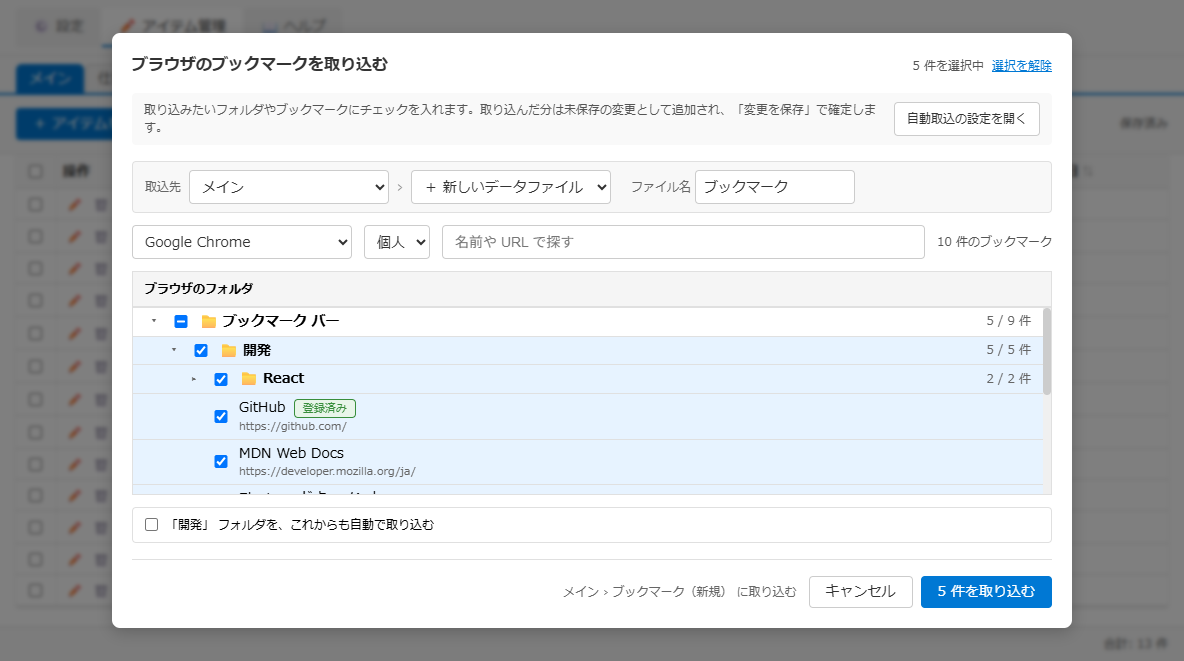
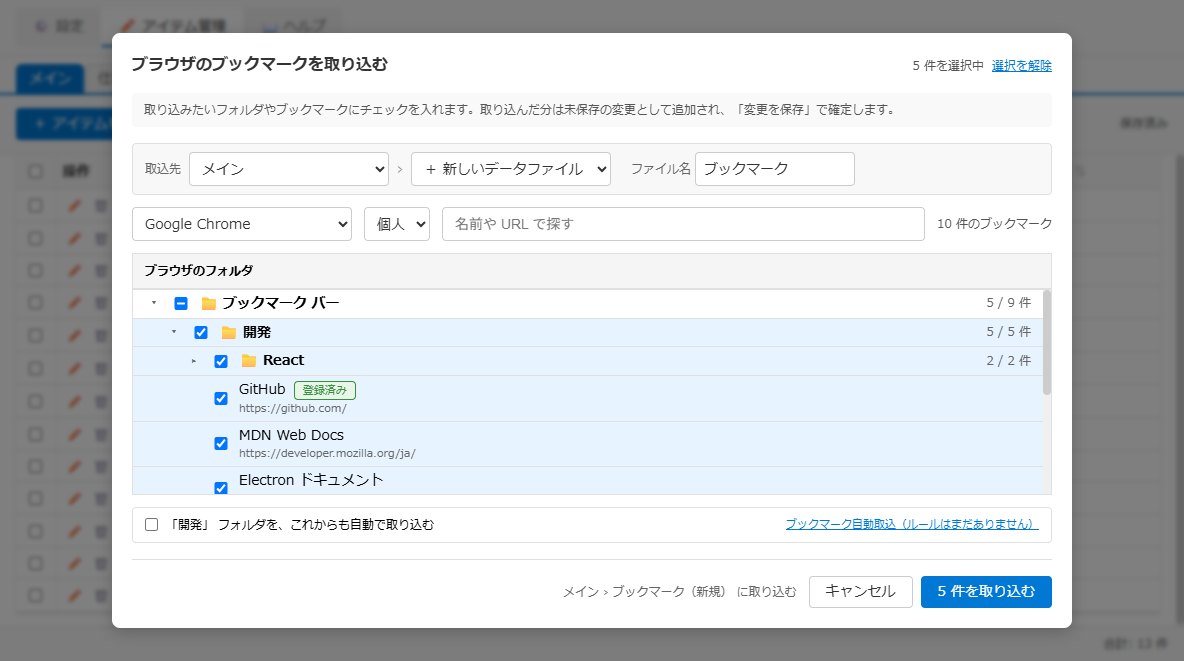
feat: ブックマーク取込の「自動取込の設定を開く」を、自動取込の帯のリンク「ブックマーク自動取込（ルール N 件）」にする（A3-95 本人の確認から）
- 上の案内のボタンを外し、自動取込の帯の右端にリンクを置く。ルールが 0 件でも「（ルールはまだありません）」と出し、自動取込があることに気づけるようにする
- リンクの文言を行き先の設定の名前にそろえ、保存されるルールの説明も「あとで「ブックマーク自動取込」で足せます」にする

diff --git a/src/renderer/components/BookmarkImportModal.tsx b/src/renderer/components/BookmarkImportModal.tsx
@@ -65,6 +65,8 @@ interface BookmarkImportModalProps {
   onCancel: () => void;
   /** 設定「ブックマーク自動取込」を開く（既存ルールの確認用。モーダルは閉じる） */
   onOpenAutoImportSettings?: () => void;
+  /** 設定にある自動取込のルールの数（帯のリンクに出す） */
+  autoImportRuleCount: number;
 }
 
 function BookmarkImportModal({
@@ -76,6 +78,7 @@ function BookmarkImportModal({
   onSaveAsRule,
   onCancel,
   onOpenAutoImportSettings,
+  autoImportRuleCount,
 }: BookmarkImportModalProps): ReactElement {
   const { t } = useTranslation();
   const modalRef = useRef<HTMLDivElement>(null);
@@ -514,21 +517,7 @@ function BookmarkImportModal({
           </div>
         </div>
 
-        <div className="import-hint import-hint-with-action">
-          <span>{t('bookmarkImportModal.hint')}</span>
-          {onOpenAutoImportSettings && (
-            <Button
-              variant="secondary"
-              size="sm"
-              onClick={() => {
-                onCancel();
-                onOpenAutoImportSettings();
-              }}
-            >
-              {t('bookmarkRule.openAutoImportSettings')}
-            </Button>
-          )}
-        </div>
+        <div className="import-hint">{t('bookmarkImportModal.hint')}</div>
 
         <ImportDestinationBand dest={dest} />
 
@@ -658,15 +647,32 @@ function BookmarkImportModal({
 
         {/* 自動取込の帯（フッターの上。重複時の処理と同じ置き方） */}
         <div className={`bookmark-import-sync${asRule ? ' on' : ''}`}>
-          <label className="bookmark-import-sync-toggle">
-            <input
-              type="checkbox"
-              checked={asRule}
-              disabled={!canSync}
-              onChange={(e) => setAsRule(e.target.checked)}
-            />
-            {syncLabel}
-          </label>
+          <div className="bookmark-import-sync-row">
+            <label className="bookmark-import-sync-toggle">
+              <input
+                type="checkbox"
+                checked={asRule}
+                disabled={!canSync}
+                onChange={(e) => setAsRule(e.target.checked)}
+              />
+              {syncLabel}
+            </label>
+            {/* 設定の「ブックマーク自動取込」へ。ルールが 0 件でも出し、自動取込があることに気づけるようにする */}
+            {onOpenAutoImportSettings && (
+              <button
+                type="button"
+                className="bookmark-import-sync-link"
+                onClick={() => {
+                  onCancel();
+                  onOpenAutoImportSettings();
+                }}
+              >
+                {autoImportRuleCount > 0
+                  ? t('bookmarkImportModal.autoImportLink', { count: autoImportRuleCount })
+                  : t('bookmarkImportModal.autoImportLinkNone')}
+              </button>
+            )}
+          </div>
           {asRule ? (
             <>
               <label className="bookmark-import-rule-name">

diff --git a/src/common/i18n/locales/ja.ts b/src/common/i18n/locales/ja.ts
@@ -1147,7 +1147,6 @@ info secondary purple teal pink indigo orange cyan か #rrggbb。グループは
     newTitle: 'ブックマークの取込ルールを追加',
     editTitle: 'ブックマークの取込ルールを編集',
     hint: '条件に合うブックマークを、起動時などに取込先へ入れ直します。ブラウザ側で足したり消したりした分が反映されます。',
-    openAutoImportSettings: '自動取込の設定を開く',
     name: 'ルール名:',
     namePlaceholder: '{{name}}（空なら条件から自動で付けます）',
     source: '取込元:',
@@ -1249,9 +1248,12 @@ info secondary purple teal pink indigo orange cyan か #rrggbb。グループは
     syncHtml: 'HTML ファイルは自動取込にできません',
     syncSearching: '検索中は自動取込にできません。検索を消して、フォルダごと選ぶと使えます',
     syncPartial: '1 件ずつ選んだ分があるので自動取込にできません。フォルダごと選ぶと使えます',
+    autoImportLink_one: 'ブックマーク自動取込（ルール {{count}} 件）',
+    autoImportLink_other: 'ブックマーク自動取込（ルール {{count}} 件）',
+    autoImportLinkNone: 'ブックマーク自動取込（ルールはまだありません）',
     ruleName: 'ルール名',
     ruleSummary:
-      '保存されるルール: {{source}} ・ {{folders}}。名前の条件や表示名は、あとで設定の「ブックマーク自動取込」で足せます',
+      '保存されるルール: {{source}} ・ {{folders}}。名前の条件や表示名は、あとで「ブックマーク自動取込」で足せます',
     ruleAllFolders: 'すべてのフォルダ（あとから増えたフォルダも）',
     ruleFolders: '{{folders}}（サブフォルダも）',
     allBookmarksRuleName: 'ブックマーク全件',

diff --git a/src/common/i18n/locales/en.ts b/src/common/i18n/locales/en.ts
@@ -1144,7 +1144,6 @@ warning, info, secondary, purple, teal, pink, indigo, orange, cyan, or #rrggbb. 
     newTitle: 'Add a bookmark import rule',
     editTitle: 'Edit bookmark import rule',
     hint: 'Bookmarks that match are imported into the destination again at startup and other times, so changes made in the browser are reflected.',
-    openAutoImportSettings: 'Open auto-import settings',
     name: 'Rule name:',
     namePlaceholder: '{{name}} (named from the conditions if left blank)',
     source: 'Source:',
@@ -1247,9 +1246,12 @@ warning, info, secondary, purple, teal, pink, indigo, orange, cyan, or #rrggbb. 
       "You can't set up auto-import while searching. Clear the search and select whole folders",
     syncPartial:
       "Some bookmarks are selected one by one, so they can't be auto-imported. Select whole folders",
+    autoImportLink_one: 'Bookmark auto-import ({{count}} rule)',
+    autoImportLink_other: 'Bookmark auto-import ({{count}} rules)',
+    autoImportLinkNone: 'Bookmark auto-import (no rules yet)',
     ruleName: 'Rule name',
     ruleSummary:
-      'Rule to save: {{source}} · {{folders}}. You can add name filters or display names later in Settings > Bookmark auto-import',
+      'Rule to save: {{source}} · {{folders}}. You can add name filters or display names later in Bookmark auto-import',
     ruleAllFolders: 'All folders (including ones added later)',
     ruleFolders: '{{folders}} (with subfolders)',
     allBookmarksRuleName: 'All bookmarks',

diff --git a/tests/e2e/specs/bookmark-import.spec.ts b/tests/e2e/specs/bookmark-import.spec.ts
@@ -302,11 +302,15 @@ test.describe('QuickDashLauncher - ブックマーク取込', () => {
     await stubBrowsers(electronApp);
 
     try {
-      await test.step('取込画面の案内から設定の該当カテゴリを開く（取込画面は閉じる）', async () => {
+      await test.step('取込画面の自動取込の帯のリンクから設定の該当カテゴリを開く（取込画面は閉じる）', async () => {
         await chooseImportMenu(adminWindow, 'ブラウザのブックマークを取り込む');
         const modal = adminWindow.locator(IMPORT_MODAL);
         await modal.waitFor({ state: 'visible', timeout: 10000 });
-        await modal.locator('.import-hint .btn', { hasText: '自動取込の設定を開く' }).click();
+        // 帯の右端のリンク。ルールが無くても出す
+        await expect(modal.locator('.bookmark-import-sync-link')).toHaveText(
+          'ブックマーク自動取込（ルールはまだありません）'
+        );
+        await modal.locator('.bookmark-import-sync-link').click();
         await expect(
           adminWindow.locator('.menu-item.active', { hasText: 'ブックマーク自動取込' })
         ).toBeVisible({ timeout: 5000 });

diff --git a/src/renderer/styles/components/BookmarkImport.css b/src/renderer/styles/components/BookmarkImport.css
@@ -290,6 +290,27 @@
   background-color: var(--bg-section);
 }
 
+.bookmark-import-sync-row {
+  display: flex;
+  flex-wrap: wrap;
+  align-items: center;
+  gap: var(--spacing-xs) var(--spacing-lg);
+}
+
+/* 右端の「ブックマーク自動取込（ルール N 件）」 */
+.bookmark-import-sync-link {
+  margin-left: auto;
+  padding: 0;
+  border: none;
+  background: none;
+  color: var(--color-primary);
+  font-family: inherit;
+  font-size: var(--font-size-xs);
+  text-decoration: underline;
+  white-space: nowrap;
+  cursor: pointer;
+}
+
 .bookmark-import-sync-toggle {
   display: flex;
   align-items: center;

diff --git a/src/renderer/styles/components/ImportModal.css b/src/renderer/styles/components/ImportModal.css
@@ -130,16 +130,3 @@
   display: flex;
   gap: var(--spacing-sm);
 }
-
-/* 案内の右にボタンを置くとき（ブックマーク取込の「自動取込の設定を開く」） */
-.import-hint-with-action {
-  display: flex;
-  flex-wrap: wrap;
-  align-items: center;
-  gap: var(--spacing-sm) var(--spacing-md);
-}
-
-.import-hint-with-action > span {
-  flex: 1 1 320px;
-  min-width: 0;
-}

diff --git a/src/renderer/components/AdminItemManagerView.tsx b/src/renderer/components/AdminItemManagerView.tsx
@@ -778,6 +778,7 @@ const AdminItemManagerView: React.FC<EditModeViewProps> = ({
           onSaveAsRule={handleBookmarkSaveAsRule}
           onCancel={() => setIsBookmarkModalOpen(false)}
           onOpenAutoImportSettings={onOpenAutoImportSettings}
+          autoImportRuleCount={autoImportSettings.rules.length}
         />
       )}
 

diff --git a/docs/screens/bookmark-import-modal.md b/docs/screens/bookmark-import-modal.md
@@ -42,7 +42,6 @@
 | **ヘッダー** | タイトル | 「ブラウザのブックマークを取り込む」 | 常時表示 | - |
 | **ヘッダー** | 選択中の件数 | タイトルの右に「N 件を選択中」。1 件以上選んでいるときは「選択を解除」も出す | 常時表示 | [4.3](#43-選ぶ) |
 | **案内** | 説明 | チェックを入れて取り込むこと、未保存の変更として入り「変更を保存」で確定すること | 常時表示 | - |
-| **案内** | 自動取込の設定を開く | 画面を閉じて、設定タブの「ブックマーク自動取込」を開く（既存ルールの確認用） | 常時表示 | - |
 | **取込先の帯** | タブ・データファイル・タブ名・ファイル名 | アプリ取込画面と同じ。新しいタブ・データファイルの名前の初期値は「ブックマーク」 | 常時表示 | [4.5](#45-取込先を選ぶ) |
 | **取込元・検索** | 取込元 | インストール済みの Chrome / Edge と「HTML ファイル（他ブラウザからの書き出し）」から選ぶ | 常時表示 | [4.1](#41-取込元を選ぶ) |
 | **取込元・検索** | プロファイル | 選んだブラウザのプロファイルから 1 つ選ぶ（「すべてのプロファイル」は無い） | 取込元がブラウザ | [4.1](#41-取込元を選ぶ) |
@@ -55,7 +54,8 @@
 | **一覧** | 空の表示 | 取込元を選ぶ前は「取込元を選ぶとブックマークが読み込まれます」、検索で 0 件なら「一致するブックマークはありません」 | 該当するとき | - |
 | **重複警告** | 重複時の処理 | 「選んだブックマークのうち N 件は取込先に登録済みです」と、「重複時の処理:」の選択肢「スキップ」「上書き」 | 既存のデータファイルが取込先で、登録済みの URL を選んでいて、自動で取り込むをオンにしていないとき | [4.6](#46-取り込む) |
 | **自動取込の帯** | これからも自動で取り込む | フッターのすぐ上の帯。「〈フォルダ〉 フォルダを、これからも自動で取り込む」のチェック（フォルダ名は 2 つまで出し、3 つ以上は「選んだ N フォルダを、これからも自動で取り込む」、全部を選んでいれば「すべてのブックマークを、これからも自動で取り込む」）。使えないときは理由を下に出す | 常時表示（フォルダごと選んでいるときだけ使える） | [4.4](#44-これからも自動で取り込む) |
-| **自動取込の帯** | ルール名・保存されるルール | ルール名の欄（帯の幅いっぱい。空なら自動の名前）と、「保存されるルール: 〈ブラウザ（プロファイル）〉 ・ 〈フォルダ〉。名前の条件や表示名は、あとで設定の「ブックマーク自動取込」で足せます」 | 自動で取り込むをオンにしたとき | [4.4](#44-これからも自動で取り込む) |
+| **自動取込の帯** | ブックマーク自動取込のリンク | 帯の右端に「ブックマーク自動取込（ルール N 件）」（ルールが無ければ「ブックマーク自動取込（ルールはまだありません）」）。押すと画面を閉じて、設定タブの「ブックマーク自動取込」を開く（選んでいたものは消える） | 常時表示（チェックが使えないときも出す） | - |
+| **自動取込の帯** | ルール名・保存されるルール | ルール名の欄（帯の幅いっぱい。空なら自動の名前）と、「保存されるルール: 〈ブラウザ（プロファイル）〉 ・ 〈フォルダ〉。名前の条件や表示名は、あとで「ブックマーク自動取込」で足せます」 | 自動で取り込むをオンにしたとき | [4.4](#44-これからも自動で取り込む) |
 | **フッター** | 取込先の確認 | ボタンの左に「〈取込先〉 に取り込む」（アプリ取込画面と同じ） | 常時表示 | [4.5](#45-取込先を選ぶ) |
 | **フッター** | キャンセル | 閉じる | 常時表示 | - |
 | **フッター** | N 件を取り込む | 選んだブックマークを取り込む。自動で取り込むをオンにしたときは「N 件を取り込み、自動取込に登録」。0 件のとき・処理中は無効 | 常時表示 | [4.6](#46-取り込む) |

diff --git a/docs/features/bookmark-import.md b/docs/features/bookmark-import.md
@@ -30,7 +30,7 @@
 
 ## 画面のあいだの導線
 
-- 取込画面の上部に「自動取込の設定を開く」ボタンがあります（既存ルールの確認用。取込画面を閉じて設定の該当カテゴリを開く）。
+- 取込画面の下の自動取込の帯の右端に「ブックマーク自動取込（ルール N 件）」のリンクがあります（ルールが無くても出ます。取込画面を閉じて設定の該当カテゴリを開く）。
 - アイテム管理の「＋ アイテムを追加」の右隣の ▼ に「ブックマーク自動取込の設定…」があります。
 - メインウィンドウの ➕ メニュー「🔖 ブラウザのブックマークを取り込む」から、管理ウィンドウを開いてこの取込画面を表示できます。
 - 設定「ブックマーク自動取込」の上部に「手動で取り込む」ボタンがあります（アイテム管理タブに切り替えて取込画面を開く）。

diff --git a/docs/screens/screen-transitions.md b/docs/screens/screen-transitions.md
@@ -234,7 +234,7 @@ graph TD
 | 元画面 | 遷移先 | トリガー | 戻り方 |
 | --- | --- | --- | --- |
 | **ブックマーク取込画面** | **ファイル選択ダイアログ（OS）** | 取込元 HTML の「ファイルを選択」 | キャンセル / 選択 |
-| **ブックマーク取込画面** | **設定/ブックマーク自動取込** | 「自動取込の設定を開く」 | 「手動で取り込む」で戻る |
+| **ブックマーク取込画面** | **設定/ブックマーク自動取込** | 自動取込の帯の「ブックマーク自動取込（ルール N 件）」 | 「手動で取り込む」で戻る |
 
 ## 画面の種類と特性
 
